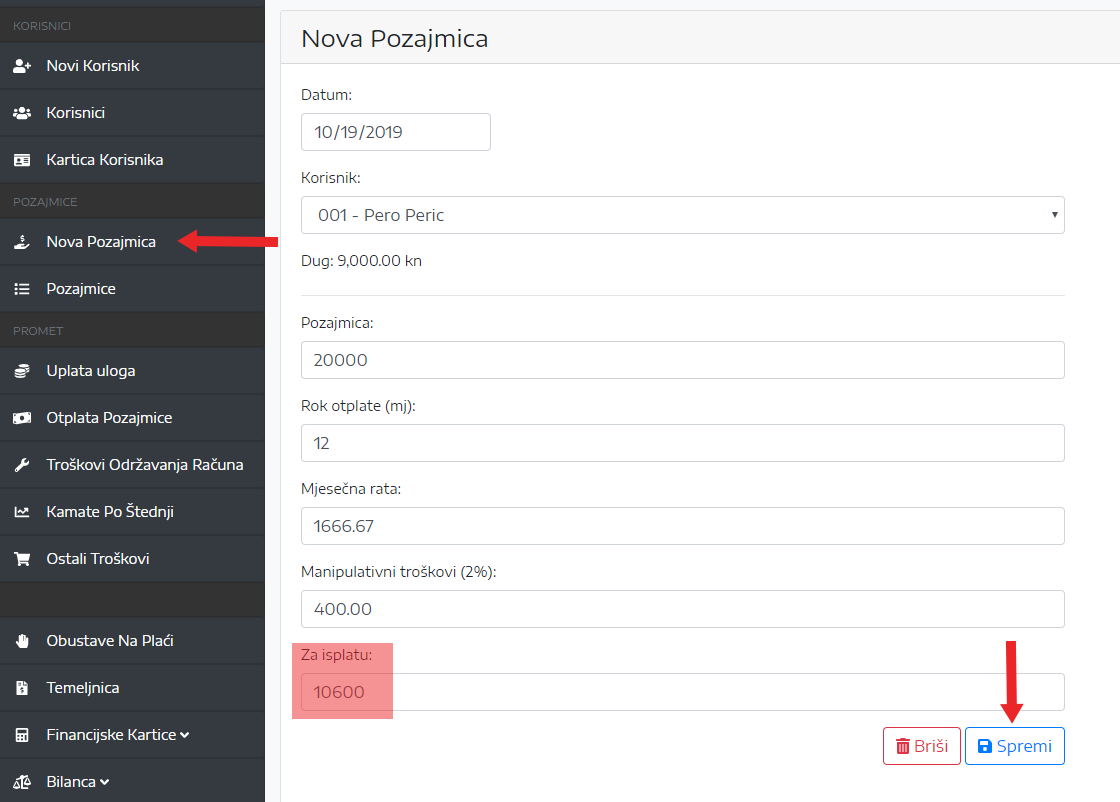
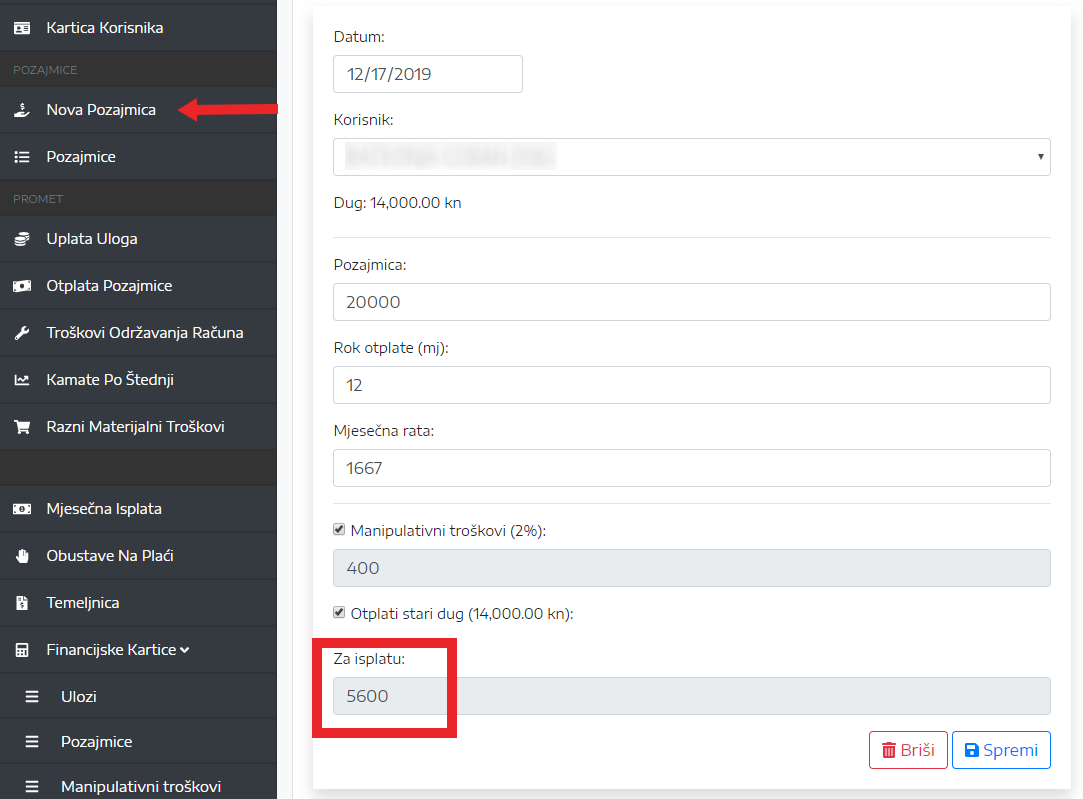
Kup help.

diff --git a/kup/uputa.html b/kup/uputa.html
@@ -182,7 +182,7 @@
                             Za ispis kliknuti na <strong>PDF</strong>.
                         </p>
                         <div>
-                            <em class="text-danger">* Napomena: Iznos za isplatu se umanjuje za iznos manipulativnog troška i dosadašnjeg duga.</em>
+                            <em class="text-danger">* Napomena: Iznos za isplatu se umanjuje za iznos manipulativnog troška i starog duga.</em>
                         </div>
                         <img class="img-responsive img-thumbnail img" src="img/help/novapozajmica.png" />
                     </div>
